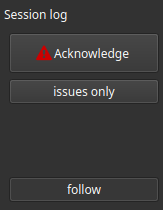
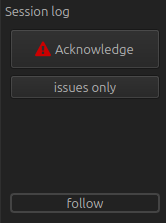
update screenshots on v1.0 session log panel docs

Changed region(s): [[0.0613, 0.1429, 0.9816, 0.5143], [0.0613, 0.8286, 0.9816, 0.9714], [0.0307, 0.0286, 0.4294, 0.1143]]

diff --git a/website/content/fr/docs/v1.0/userguide/ui/log/_index.md b/website/content/fr/docs/v1.0/userguide/ui/log/_index.md
@@ -2,7 +2,7 @@
 title: "Journal de session"
 description: "Documentation du panneau Journal de session de ALS"
 author: "Équipe ALS"
-lastmod: 2026-06-11T00:46:48Z
+lastmod: 2026-06-11T13:19:03Z
 keywords: [ "journal de session", "suivi", "erreurs", "log", "panneaux" ]
 type: "docs"
 tags: [ "journal", "problèmes", "panneaux" ]
@@ -23,8 +23,8 @@ Le `Journal de session` centralise la gestion des messages générés par ALS et
 {{< center >}}
 {{< figure src="log.png"
 caption="Le panneau Journal de session"
-width="1307px"
-height="210px"
+width="1334px"
+height="221px"
 alt="Le panneau Journal de session de ALS affichant des messages de traitement." >}}
 {{< /center >}}
 
@@ -100,8 +100,8 @@ Le bouton `Suivre` garantit que le dernier message du journal reste toujours vis
 {{< center >}}
 {{< figure src="controls.png"
 caption="Les boutons du Journal de session"
-width="164px"
-height="210px"
+width="166px"
+height="221px"
 alt="Les boutons Suivre, Problèmes seuls et Acquitter du panneau Journal de session." >}}
 {{< /center >}}
 </div>

diff --git a/website/content/en/docs/v1.0/userguide/ui/log/_index.md b/website/content/en/docs/v1.0/userguide/ui/log/_index.md
@@ -2,7 +2,7 @@
 title: "Session Log"
 description: "Documentation for the ALS Session Log Panel"
 author: "ALS Team"
-lastmod: 2026-06-11T00:46:48Z
+lastmod: 2026-06-11T13:19:03Z
 keywords: [ "session log", "follow", "errors", "log", "panels" ]
 type: "docs"
 tags: [ "log", "issues", "panels" ]
@@ -23,8 +23,8 @@ The `Session Log` consolidates the management of messages generated by ALS and i
 {{< center >}}
 {{< figure src="log.png"
 caption="The Session Log Panel"
-width="1307px"
-height="210px"
+width="1305px"
+height="223px"
 alt="The ALS Session Log Panel displaying processing messages." >}}
 {{< /center >}}
 
@@ -96,8 +96,8 @@ The `Follow` button ensures that the latest message in the log is always visible
 {{< center >}}
 {{< figure src="controls.png"
 caption="The Session Log Control Buttons"
-width="164px"
-height="210px"
+width="166px"
+height="223px"
 alt="The Follow, Issues Only, and Acknowledge buttons on the Session Log Panel." >}}
 {{< /center >}}
 </div>
